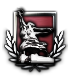
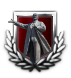
LEFT Communism baby

diff --git a/ideologies.html b/ideologies.html
@@ -382,10 +382,10 @@
                     <td class="col-details"><code>GFX_ideology_leninist_internationalism_icon</code></td>
                 </tr>
                 <tr>
-                    <td class="col-name">Neo Communism</td>
-                    <td class="col-icon"><img class="subideology-icon" src="images/ideologies/neo_communism.png" alt="Neo Communism"></td>
-                    <td class="col-banner"><img class="banner-img" src="images/banners/banner_neo_communism.png" alt="Banner" onerror="this.style.display='none'"></td>
-                    <td class="col-details"><code>GFX_ideology_neo_communism_icon</code></td>
+                    <td class="col-name">Left Communism</td>
+                    <td class="col-icon"><img class="subideology-icon" src="images/ideologies/left_communism.png" alt="Left Communism"></td>
+                    <td class="col-banner"><img class="banner-img" src="images/banners/banner_left_communism.png" alt="Banner" onerror="this.style.display='none'"></td>
+                    <td class="col-details"><code>GFX_ideology_left_communism_icon</code></td>
                 </tr>
                 <tr>
                     <td class="col-name">Neo Sovietism</td>
